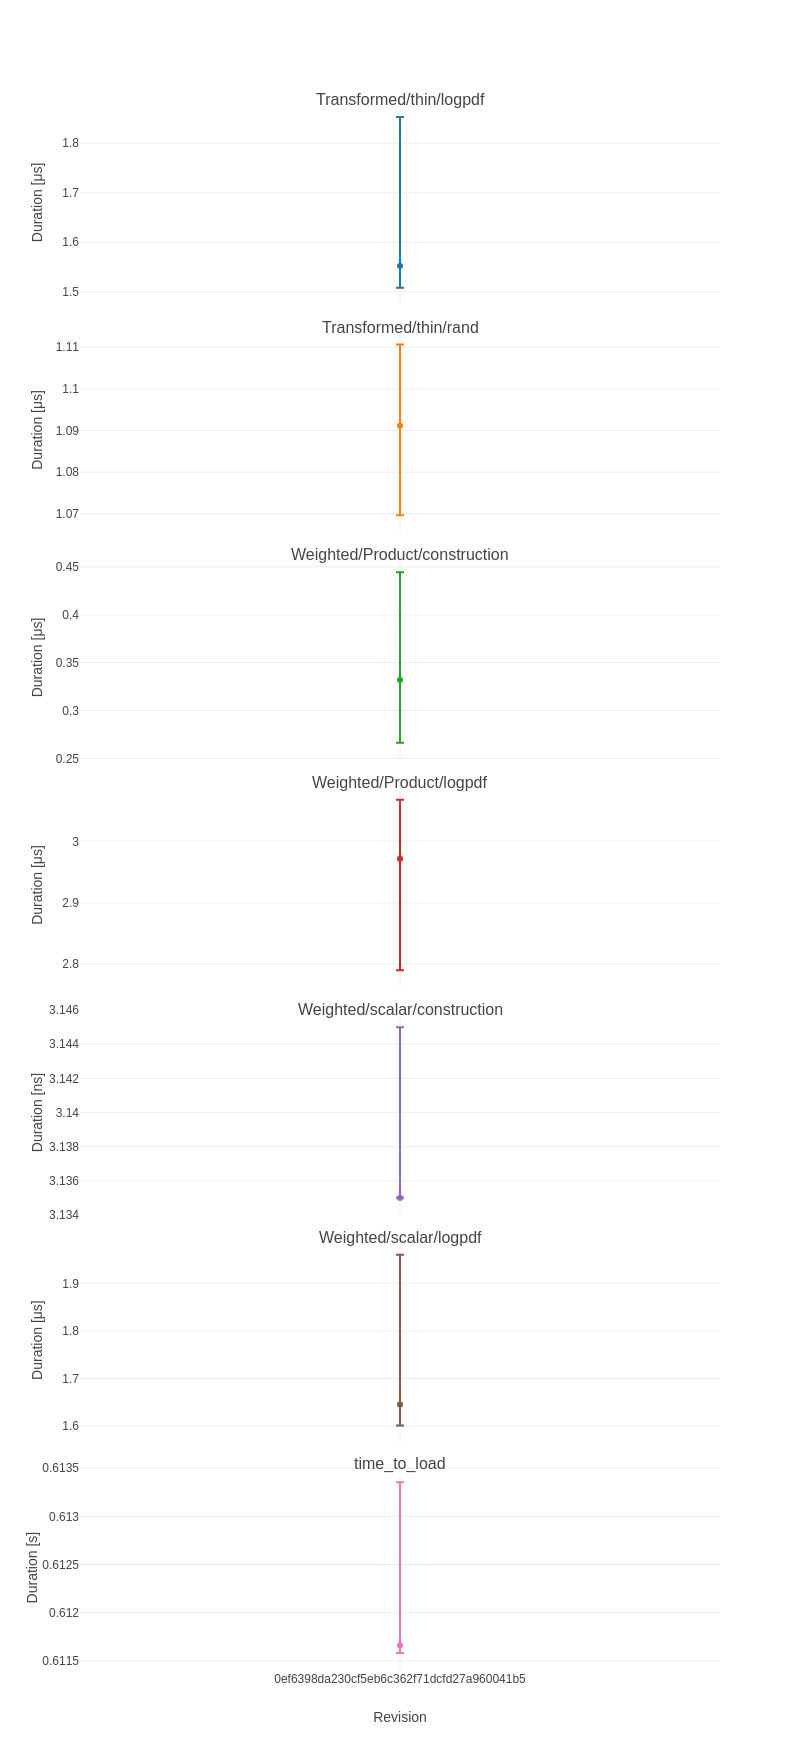
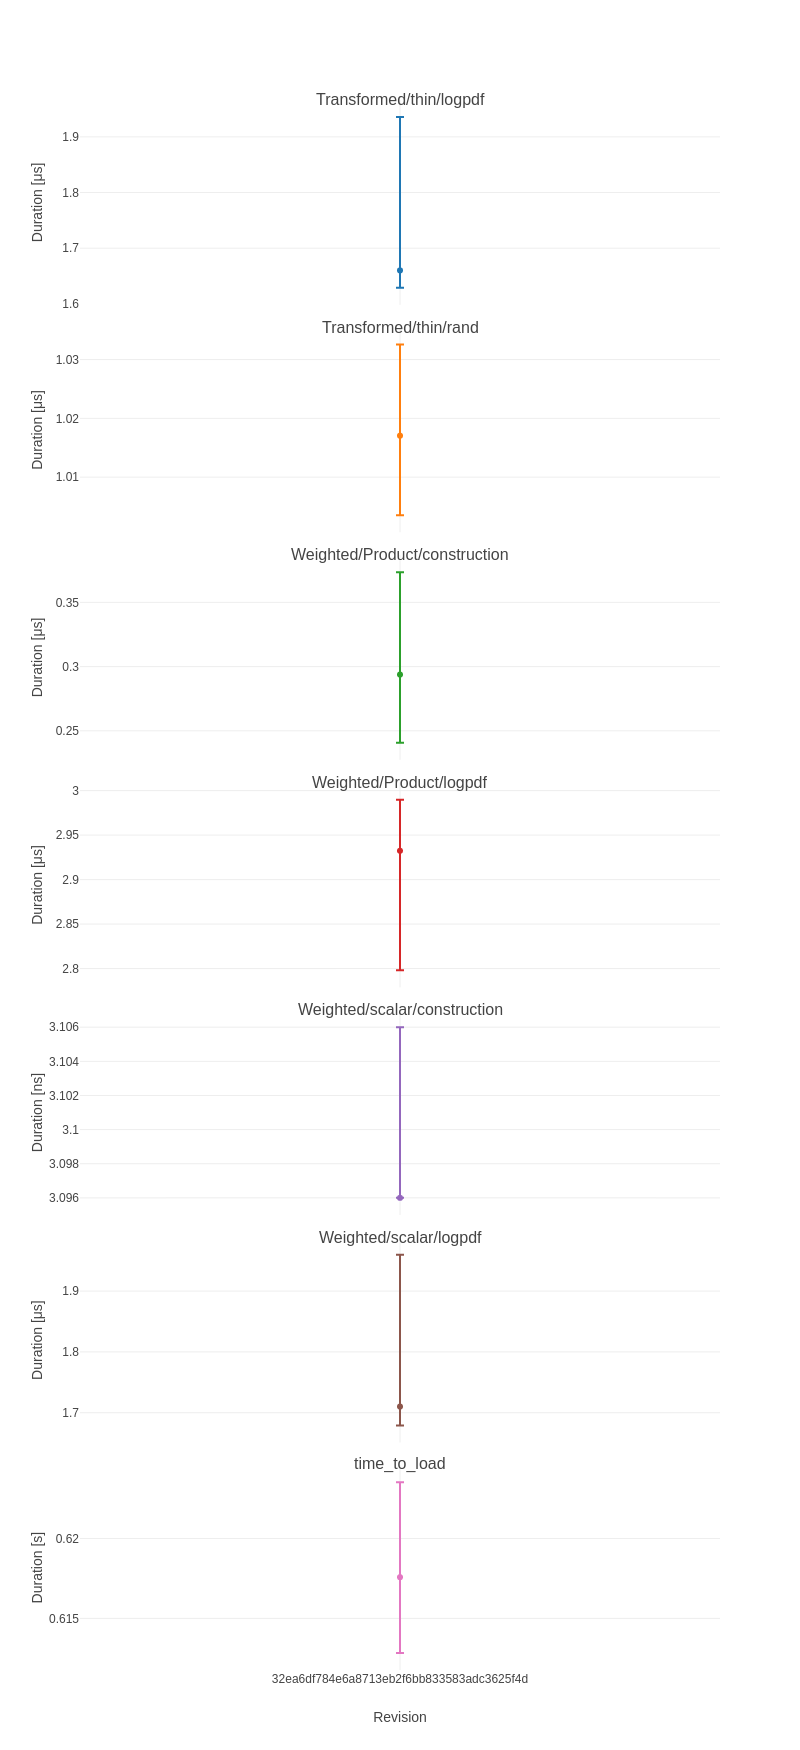
Deploying to benchmarks from @ EpiAware/ModifiedDistributions.jl@32ea6df784e6a8713eb2f6bb833583adc3625f4d 🚀

diff --git a/history/table.md b/history/table.md
@@ -1,114 +1,114 @@
-|                                                                                   | 0ef6398da230cf...   |
+|                                                                                   | 32ea6df784e6a8...   |
 |:----------------------------------------------------------------------------------|:-------------------:|
-| AD gradients/Affine LogNormal scale+shift logpdf/Enzyme forward                   | 8.08 ± 0.13 μs      |
-| AD gradients/Affine LogNormal scale+shift logpdf/Enzyme reverse                   | 2.98 ± 0.12 μs      |
-| AD gradients/Affine LogNormal scale+shift logpdf/ForwardDiff                      | 0.814 ± 0.13 μs     |
-| AD gradients/Affine LogNormal scale+shift logpdf/Mooncake forward                 | 7.36 ± 0.41 μs      |
-| AD gradients/Affine LogNormal scale+shift logpdf/Mooncake reverse                 | 18.3 ± 0.93 μs      |
-| AD gradients/Affine LogNormal scale+shift logpdf/ReverseDiff (tape)               | 16.3 ± 0.54 μs      |
-| AD gradients/Modified LogNormal identity-link logpdf/Enzyme forward               | 8.32 ± 0.13 μs      |
-| AD gradients/Modified LogNormal identity-link logpdf/Enzyme reverse               | 6.4 ± 1.4 μs        |
-| AD gradients/Modified LogNormal identity-link logpdf/ForwardDiff                  | 1.01 ± 0.024 μs     |
-| AD gradients/Modified LogNormal identity-link logpdf/Mooncake forward             | 8.78 ± 0.17 μs      |
-| AD gradients/Modified LogNormal identity-link logpdf/Mooncake reverse             | 0.0432 ± 0.0056 ms  |
-| AD gradients/Modified LogNormal identity-link logpdf/ReverseDiff (tape)           | 0.032 ± 0.00081 ms  |
-| AD gradients/Modified LogNormal log-link logpdf/Enzyme forward                    | 8.14 ± 0.13 μs      |
-| AD gradients/Modified LogNormal log-link logpdf/Enzyme reverse                    | 3.55 ± 0.091 μs     |
-| AD gradients/Modified LogNormal log-link logpdf/ForwardDiff                       | 0.958 ± 0.13 μs     |
-| AD gradients/Modified LogNormal log-link logpdf/Mooncake forward                  | 7.95 ± 0.17 μs      |
-| AD gradients/Modified LogNormal log-link logpdf/Mooncake reverse                  | 0.041 ± 0.0049 ms   |
-| AD gradients/Modified LogNormal log-link logpdf/ReverseDiff (tape)                | 27.1 ± 0.72 μs      |
-| AD gradients/Product{Weighted} LogNormal vector logpdf/Enzyme forward             | 8.04 ± 0.44 μs      |
-| AD gradients/Product{Weighted} LogNormal vector logpdf/Enzyme reverse             | 1.07 ± 0.25 μs      |
-| AD gradients/Product{Weighted} LogNormal vector logpdf/ForwardDiff                | 0.946 ± 0.072 μs    |
-| AD gradients/Product{Weighted} LogNormal vector logpdf/Mooncake forward           | 7.44 ± 0.52 μs      |
-| AD gradients/Product{Weighted} LogNormal vector logpdf/Mooncake reverse           | 27 ± 2.7 μs         |
-| AD gradients/Product{Weighted} LogNormal vector logpdf/ReverseDiff (tape)         | 16.4 ± 0.56 μs      |
-| AD gradients/Thinned convolved series sum/Enzyme forward                          | 10.3 ± 0.23 μs      |
-| AD gradients/Thinned convolved series sum/Enzyme reverse                          | 14.6 ± 0.24 μs      |
-| AD gradients/Thinned convolved series sum/ForwardDiff                             | 3.33 ± 0.053 μs     |
-| AD gradients/Thinned convolved series sum/Mooncake forward                        | 12.8 ± 0.48 μs      |
-| AD gradients/Thinned convolved series sum/Mooncake reverse                        | 28.5 ± 4.6 μs       |
-| AD gradients/Thinned convolved series sum/ReverseDiff (tape)                      | 0.0363 ± 0.00084 ms |
-| AD gradients/Transformed cumulative LogNormal logpdf/Enzyme forward               | 7.66 ± 0.11 μs      |
-| AD gradients/Transformed cumulative LogNormal logpdf/Enzyme reverse               | 1.99 ± 0.056 μs     |
-| AD gradients/Transformed cumulative LogNormal logpdf/ForwardDiff                  | 0.527 ± 0.09 μs     |
-| AD gradients/Transformed cumulative LogNormal logpdf/Mooncake forward             | 5.71 ± 0.34 μs      |
-| AD gradients/Transformed cumulative LogNormal logpdf/Mooncake reverse             | 24.6 ± 6.8 μs       |
-| AD gradients/Transformed cumulative LogNormal logpdf/ReverseDiff (tape)           | 14.9 ± 0.48 μs      |
-| AD gradients/Transformed thin LogNormal logpdf/Enzyme forward                     | 7.63 ± 0.11 μs      |
-| AD gradients/Transformed thin LogNormal logpdf/Enzyme reverse                     | 1.98 ± 0.054 μs     |
-| AD gradients/Transformed thin LogNormal logpdf/ForwardDiff                        | 0.527 ± 0.089 μs    |
-| AD gradients/Transformed thin LogNormal logpdf/Mooncake forward                   | 5.77 ± 0.31 μs      |
-| AD gradients/Transformed thin LogNormal logpdf/Mooncake reverse                   | 24.5 ± 6.8 μs       |
-| AD gradients/Transformed thin LogNormal logpdf/ReverseDiff (tape)                 | 15 ± 0.5 μs         |
-| AD gradients/Weighted Affine LogNormal nested logpdf/Enzyme forward               | 7.82 ± 0.14 μs      |
-| AD gradients/Weighted Affine LogNormal nested logpdf/Enzyme reverse               | 0.968 ± 0.076 μs    |
-| AD gradients/Weighted Affine LogNormal nested logpdf/ForwardDiff                  | 0.834 ± 0.13 μs     |
-| AD gradients/Weighted Affine LogNormal nested logpdf/Mooncake forward             | 7.94 ± 0.46 μs      |
-| AD gradients/Weighted Affine LogNormal nested logpdf/Mooncake reverse             | 19.6 ± 1.3 μs       |
-| AD gradients/Weighted Affine LogNormal nested logpdf/ReverseDiff (tape)           | 18.1 ± 0.52 μs      |
-| AD gradients/Weighted LogNormal observation-time weight logpdf/Enzyme forward     | 7.56 ± 0.11 μs      |
-| AD gradients/Weighted LogNormal observation-time weight logpdf/Enzyme reverse     | 1.25 ± 0.36 μs      |
-| AD gradients/Weighted LogNormal observation-time weight logpdf/ForwardDiff        | 0.564 ± 0.09 μs     |
-| AD gradients/Weighted LogNormal observation-time weight logpdf/Mooncake forward   | 6.44 ± 0.4 μs       |
-| AD gradients/Weighted LogNormal observation-time weight logpdf/Mooncake reverse   | 30.1 ± 2.8 μs       |
-| AD gradients/Weighted LogNormal observation-time weight logpdf/ReverseDiff (tape) | 17.1 ± 0.52 μs      |
-| AD gradients/Weighted LogNormal scalar logpdf/Enzyme forward                      | 7.55 ± 0.11 μs      |
-| AD gradients/Weighted LogNormal scalar logpdf/Enzyme reverse                      | 1.25 ± 0.41 μs      |
-| AD gradients/Weighted LogNormal scalar logpdf/ForwardDiff                         | 0.58 ± 0.089 μs     |
-| AD gradients/Weighted LogNormal scalar logpdf/Mooncake forward                    | 6.46 ± 0.38 μs      |
-| AD gradients/Weighted LogNormal scalar logpdf/Mooncake reverse                    | 0.0378 ± 0.0032 ms  |
-| AD gradients/Weighted LogNormal scalar logpdf/ReverseDiff (tape)                  | 17.2 ± 0.52 μs      |
-| AD gradients/Weighted Sequential observed-total logpdf/Enzyme forward             | 0.115 ± 0.0035 ms   |
-| AD gradients/Weighted Sequential observed-total logpdf/Enzyme reverse             | 0.317 ± 0.026 ms    |
-| AD gradients/Weighted Sequential observed-total logpdf/ForwardDiff                | 0.087 ± 0.0011 ms   |
-| AD gradients/Weighted Sequential observed-total logpdf/Mooncake forward           | 0.417 ± 0.02 ms     |
-| AD gradients/Weighted Sequential observed-total logpdf/Mooncake reverse           | 1.17 ± 0.069 ms     |
-| AD gradients/Weighted Sequential observed-total logpdf/ReverseDiff (tape)         | 2.31 ± 0.37 ms      |
-| Affine/LogNormal/ccdf                                                             | 3.53 ± 0.43 μs      |
-| Affine/LogNormal/cdf                                                              | 3.58 ± 0.44 μs      |
-| Affine/LogNormal/construction                                                     | 3.48 ± 0.001 ns     |
-| Affine/LogNormal/logpdf                                                           | 2.66 ± 0.4 μs       |
-| Affine/LogNormal/pdf                                                              | 4.23 ± 0.24 μs      |
-| Affine/LogNormal/quantile                                                         | 0.472 ± 0.02 μs     |
-| Affine/LogNormal/rand                                                             | 1.26 ± 0.06 μs      |
-| Baseline/LogNormal/ccdf                                                           | 2.73 ± 0.39 μs      |
-| Baseline/LogNormal/cdf                                                            | 2.72 ± 0.4 μs       |
-| Baseline/LogNormal/construction                                                   | 1.74 ± 0.01 ns      |
-| Baseline/LogNormal/logpdf                                                         | 1.55 ± 0.36 μs      |
-| Baseline/LogNormal/pdf                                                            | 3.35 ± 0.43 μs      |
-| Baseline/LogNormal/quantile                                                       | 0.454 ± 0.018 μs    |
-| Baseline/LogNormal/rand                                                           | 1.08 ± 0.037 μs     |
-| Modified/IdentityLink/ccdf                                                        | 8.51 ± 0.017 μs     |
-| Modified/IdentityLink/cdf                                                         | 8.09 ± 0.023 μs     |
-| Modified/IdentityLink/construction                                                | 3.13 ± 0.01 ns      |
-| Modified/IdentityLink/logpdf                                                      | 11.8 ± 0.041 μs     |
-| Modified/IdentityLink/pdf                                                         | 14.4 ± 0.051 μs     |
-| Modified/IdentityLink/quantile                                                    | 0.118 ± 0.00012 ms  |
-| Modified/IdentityLink/rand                                                        | 0.655 ± 0.016 ms    |
-| Modified/LogLink/ccdf                                                             | 6.18 ± 0.054 μs     |
-| Modified/LogLink/cdf                                                              | 6.7 ± 0.036 μs      |
-| Modified/LogLink/construction                                                     | 3.48 ± 0.001 ns     |
-| Modified/LogLink/logpdf                                                           | 7.79 ± 0.037 μs     |
-| Modified/LogLink/pdf                                                              | 8.88 ± 0.033 μs     |
-| Modified/LogLink/quantile                                                         | 0.885 ± 0.028 μs    |
-| Modified/LogLink/rand                                                             | 5.24 ± 0.15 μs      |
-| Transformed/cumulative/cdf                                                        | 2.73 ± 0.39 μs      |
-| Transformed/cumulative/construction                                               | 4.17 ± 0.01 ns      |
-| Transformed/cumulative/logpdf                                                     | 1.56 ± 0.34 μs      |
-| Transformed/cumulative/rand                                                       | 1.09 ± 0.036 μs     |
-| Transformed/thin/cdf                                                              | 2.72 ± 0.39 μs      |
-| Transformed/thin/construction                                                     | 3.13 ± 0.01 ns      |
-| Transformed/thin/logpdf                                                           | 1.55 ± 0.34 μs      |
-| Transformed/thin/rand                                                             | 1.09 ± 0.041 μs     |
-| Weighted/Product/construction                                                     | 0.332 ± 0.18 μs     |
-| Weighted/Product/logpdf                                                           | 2.97 ± 0.28 μs      |
-| Weighted/scalar/construction                                                      | 3.13 ± 0.01 ns      |
-| Weighted/scalar/logpdf                                                            | 1.65 ± 0.36 μs      |
-| time_to_load                                                                      | 0.612 ± 0.0018 s    |
+| AD gradients/Affine LogNormal scale+shift logpdf/Enzyme forward                   | 8.35 ± 0.1 μs       |
+| AD gradients/Affine LogNormal scale+shift logpdf/Enzyme reverse                   | 2.99 ± 0.052 μs     |
+| AD gradients/Affine LogNormal scale+shift logpdf/ForwardDiff                      | 0.749 ± 0.094 μs    |
+| AD gradients/Affine LogNormal scale+shift logpdf/Mooncake forward                 | 6.72 ± 0.31 μs      |
+| AD gradients/Affine LogNormal scale+shift logpdf/Mooncake reverse                 | 18 ± 0.74 μs        |
+| AD gradients/Affine LogNormal scale+shift logpdf/ReverseDiff (tape)               | 16.4 ± 0.42 μs      |
+| AD gradients/Modified LogNormal identity-link logpdf/Enzyme forward               | 8.66 ± 0.083 μs     |
+| AD gradients/Modified LogNormal identity-link logpdf/Enzyme reverse               | 5.86 ± 1.1 μs       |
+| AD gradients/Modified LogNormal identity-link logpdf/ForwardDiff                  | 0.992 ± 0.019 μs    |
+| AD gradients/Modified LogNormal identity-link logpdf/Mooncake forward             | 8.27 ± 0.16 μs      |
+| AD gradients/Modified LogNormal identity-link logpdf/Mooncake reverse             | 0.0428 ± 0.0051 ms  |
+| AD gradients/Modified LogNormal identity-link logpdf/ReverseDiff (tape)           | 0.0324 ± 0.00061 ms |
+| AD gradients/Modified LogNormal log-link logpdf/Enzyme forward                    | 8.5 ± 0.08 μs       |
+| AD gradients/Modified LogNormal log-link logpdf/Enzyme reverse                    | 3.52 ± 0.059 μs     |
+| AD gradients/Modified LogNormal log-link logpdf/ForwardDiff                       | 0.905 ± 0.092 μs    |
+| AD gradients/Modified LogNormal log-link logpdf/Mooncake forward                  | 7.42 ± 0.14 μs      |
+| AD gradients/Modified LogNormal log-link logpdf/Mooncake reverse                  | 0.0405 ± 0.004 ms   |
+| AD gradients/Modified LogNormal log-link logpdf/ReverseDiff (tape)                | 27.3 ± 0.53 μs      |
+| AD gradients/Product{Weighted} LogNormal vector logpdf/Enzyme forward             | 8.28 ± 0.18 μs      |
+| AD gradients/Product{Weighted} LogNormal vector logpdf/Enzyme reverse             | 1.02 ± 0.25 μs      |
+| AD gradients/Product{Weighted} LogNormal vector logpdf/ForwardDiff                | 0.884 ± 0.065 μs    |
+| AD gradients/Product{Weighted} LogNormal vector logpdf/Mooncake forward           | 7.22 ± 0.95 μs      |
+| AD gradients/Product{Weighted} LogNormal vector logpdf/Mooncake reverse           | 28.2 ± 2 μs         |
+| AD gradients/Product{Weighted} LogNormal vector logpdf/ReverseDiff (tape)         | 16.6 ± 0.41 μs      |
+| AD gradients/Thinned convolved series sum/Enzyme forward                          | 10.6 ± 0.16 μs      |
+| AD gradients/Thinned convolved series sum/Enzyme reverse                          | 14.3 ± 0.18 μs      |
+| AD gradients/Thinned convolved series sum/ForwardDiff                             | 3.25 ± 0.044 μs     |
+| AD gradients/Thinned convolved series sum/Mooncake forward                        | 12.2 ± 0.4 μs       |
+| AD gradients/Thinned convolved series sum/Mooncake reverse                        | 30.3 ± 5 μs         |
+| AD gradients/Thinned convolved series sum/ReverseDiff (tape)                      | 0.0373 ± 0.00079 ms |
+| AD gradients/Transformed cumulative LogNormal logpdf/Enzyme forward               | 8 ± 0.07 μs         |
+| AD gradients/Transformed cumulative LogNormal logpdf/Enzyme reverse               | 1.95 ± 0.038 μs     |
+| AD gradients/Transformed cumulative LogNormal logpdf/ForwardDiff                  | 0.505 ± 0.073 μs    |
+| AD gradients/Transformed cumulative LogNormal logpdf/Mooncake forward             | 5.4 ± 0.25 μs       |
+| AD gradients/Transformed cumulative LogNormal logpdf/Mooncake reverse             | 24.2 ± 6.6 μs       |
+| AD gradients/Transformed cumulative LogNormal logpdf/ReverseDiff (tape)           | 15 ± 0.41 μs        |
+| AD gradients/Transformed thin LogNormal logpdf/Enzyme forward                     | 8.02 ± 0.07 μs      |
+| AD gradients/Transformed thin LogNormal logpdf/Enzyme reverse                     | 1.96 ± 0.039 μs     |
+| AD gradients/Transformed thin LogNormal logpdf/ForwardDiff                        | 0.512 ± 0.071 μs    |
+| AD gradients/Transformed thin LogNormal logpdf/Mooncake forward                   | 5.46 ± 0.51 μs      |
+| AD gradients/Transformed thin LogNormal logpdf/Mooncake reverse                   | 23.9 ± 6.6 μs       |
+| AD gradients/Transformed thin LogNormal logpdf/ReverseDiff (tape)                 | 14.9 ± 0.39 μs      |
+| AD gradients/Weighted Affine LogNormal nested logpdf/Enzyme forward               | 8.18 ± 0.097 μs     |
+| AD gradients/Weighted Affine LogNormal nested logpdf/Enzyme reverse               | 0.951 ± 0.075 μs    |
+| AD gradients/Weighted Affine LogNormal nested logpdf/ForwardDiff                  | 0.78 ± 0.085 μs     |
+| AD gradients/Weighted Affine LogNormal nested logpdf/Mooncake forward             | 7.29 ± 0.17 μs      |
+| AD gradients/Weighted Affine LogNormal nested logpdf/Mooncake reverse             | 19.2 ± 0.86 μs      |
+| AD gradients/Weighted Affine LogNormal nested logpdf/ReverseDiff (tape)           | 18.3 ± 0.43 μs      |
+| AD gradients/Weighted LogNormal observation-time weight logpdf/Enzyme forward     | 7.92 ± 0.065 μs     |
+| AD gradients/Weighted LogNormal observation-time weight logpdf/Enzyme reverse     | 1.28 ± 0.32 μs      |
+| AD gradients/Weighted LogNormal observation-time weight logpdf/ForwardDiff        | 0.558 ± 0.074 μs    |
+| AD gradients/Weighted LogNormal observation-time weight logpdf/Mooncake forward   | 6.02 ± 0.67 μs      |
+| AD gradients/Weighted LogNormal observation-time weight logpdf/Mooncake reverse   | 29.5 ± 2.7 μs       |
+| AD gradients/Weighted LogNormal observation-time weight logpdf/ReverseDiff (tape) | 17.2 ± 0.43 μs      |
+| AD gradients/Weighted LogNormal scalar logpdf/Enzyme forward                      | 7.94 ± 0.068 μs     |
+| AD gradients/Weighted LogNormal scalar logpdf/Enzyme reverse                      | 1.3 ± 0.3 μs        |
+| AD gradients/Weighted LogNormal scalar logpdf/ForwardDiff                         | 0.545 ± 0.068 μs    |
+| AD gradients/Weighted LogNormal scalar logpdf/Mooncake forward                    | 5.98 ± 0.66 μs      |
+| AD gradients/Weighted LogNormal scalar logpdf/Mooncake reverse                    | 0.0361 ± 0.0031 ms  |
+| AD gradients/Weighted LogNormal scalar logpdf/ReverseDiff (tape)                  | 17 ± 0.43 μs        |
+| AD gradients/Weighted Sequential observed-total logpdf/Enzyme forward             | 0.115 ± 0.0028 ms   |
+| AD gradients/Weighted Sequential observed-total logpdf/Enzyme reverse             | 0.353 ± 0.034 ms    |
+| AD gradients/Weighted Sequential observed-total logpdf/ForwardDiff                | 0.0831 ± 0.00096 ms |
+| AD gradients/Weighted Sequential observed-total logpdf/Mooncake forward           | 0.416 ± 0.024 ms    |
+| AD gradients/Weighted Sequential observed-total logpdf/Mooncake reverse           | 1.3 ± 0.072 ms      |
+| AD gradients/Weighted Sequential observed-total logpdf/ReverseDiff (tape)         | 2.33 ± 0.3 ms       |
+| Affine/LogNormal/ccdf                                                             | 3.29 ± 0.37 μs      |
+| Affine/LogNormal/cdf                                                              | 3.38 ± 0.33 μs      |
+| Affine/LogNormal/construction                                                     | 3.1 ± 0.01 ns       |
+| Affine/LogNormal/logpdf                                                           | 2.65 ± 0.33 μs      |
+| Affine/LogNormal/pdf                                                              | 4.09 ± 0.23 μs      |
+| Affine/LogNormal/quantile                                                         | 0.488 ± 0.017 μs    |
+| Affine/LogNormal/rand                                                             | 1.24 ± 0.069 μs     |
+| Baseline/LogNormal/ccdf                                                           | 2.67 ± 0.32 μs      |
+| Baseline/LogNormal/cdf                                                            | 2.65 ± 0.34 μs      |
+| Baseline/LogNormal/construction                                                   | 1.55 ± 0.01 ns      |
+| Baseline/LogNormal/logpdf                                                         | 1.66 ± 0.29 μs      |
+| Baseline/LogNormal/pdf                                                            | 2.97 ± 0.32 μs      |
+| Baseline/LogNormal/quantile                                                       | 0.466 ± 0.018 μs    |
+| Baseline/LogNormal/rand                                                           | 1.02 ± 0.032 μs     |
+| Modified/IdentityLink/ccdf                                                        | 7.53 ± 0.025 μs     |
+| Modified/IdentityLink/cdf                                                         | 7.18 ± 0.03 μs      |
+| Modified/IdentityLink/construction                                                | 3.41 ± 0.01 ns      |
+| Modified/IdentityLink/logpdf                                                      | 10.5 ± 0.06 μs      |
+| Modified/IdentityLink/pdf                                                         | 12.7 ± 0.051 μs     |
+| Modified/IdentityLink/quantile                                                    | 0.11 ± 0.0002 ms    |
+| Modified/IdentityLink/rand                                                        | 0.577 ± 0.015 ms    |
+| Modified/LogLink/ccdf                                                             | 5.79 ± 0.057 μs     |
+| Modified/LogLink/cdf                                                              | 6.16 ± 0.042 μs     |
+| Modified/LogLink/construction                                                     | 2.79 ± 0.01 ns      |
+| Modified/LogLink/logpdf                                                           | 8.04 ± 0.033 μs     |
+| Modified/LogLink/pdf                                                              | 9.33 ± 0.04 μs      |
+| Modified/LogLink/quantile                                                         | 0.917 ± 0.07 μs     |
+| Modified/LogLink/rand                                                             | 5.13 ± 0.19 μs      |
+| Transformed/cumulative/cdf                                                        | 2.65 ± 0.32 μs      |
+| Transformed/cumulative/construction                                               | 3.1 ± 0.06 ns       |
+| Transformed/cumulative/logpdf                                                     | 1.66 ± 0.29 μs      |
+| Transformed/cumulative/rand                                                       | 1.02 ± 0.031 μs     |
+| Transformed/thin/cdf                                                              | 2.66 ± 0.33 μs      |
+| Transformed/thin/construction                                                     | 2.79 ± 0.01 ns      |
+| Transformed/thin/logpdf                                                           | 1.66 ± 0.31 μs      |
+| Transformed/thin/rand                                                             | 1.02 ± 0.029 μs     |
+| Weighted/Product/construction                                                     | 0.294 ± 0.13 μs     |
+| Weighted/Product/logpdf                                                           | 2.93 ± 0.19 μs      |
+| Weighted/scalar/construction                                                      | 3.1 ± 0.01 ns       |
+| Weighted/scalar/logpdf                                                            | 1.71 ± 0.28 μs      |
+| time_to_load                                                                      | 0.618 ± 0.011 s     |
 
-|                                                                                   | 0ef6398da230cf...         |
+|                                                                                   | 32ea6df784e6a8...         |
 |:----------------------------------------------------------------------------------|:-------------------------:|
 | AD gradients/Affine LogNormal scale+shift logpdf/Enzyme forward                   | 0.044 k allocs: 1.52 kB   |
 | AD gradients/Affine LogNormal scale+shift logpdf/Enzyme reverse                   | 24  allocs: 0.969 kB      |

diff --git a/history/README.md b/history/README.md
@@ -1,6 +1,6 @@
 # ModifiedDistributions.jl benchmark history
 
-Revisions: 0ef6398da230cf5eb6c362f71dcfd27a960041b5
+Revisions: 32ea6df784e6a8713eb2f6bb833583adc3625f4d
 
 See `table.md` for the ratio summary and the PNG
 files in this folder for per-benchmark timelines.
